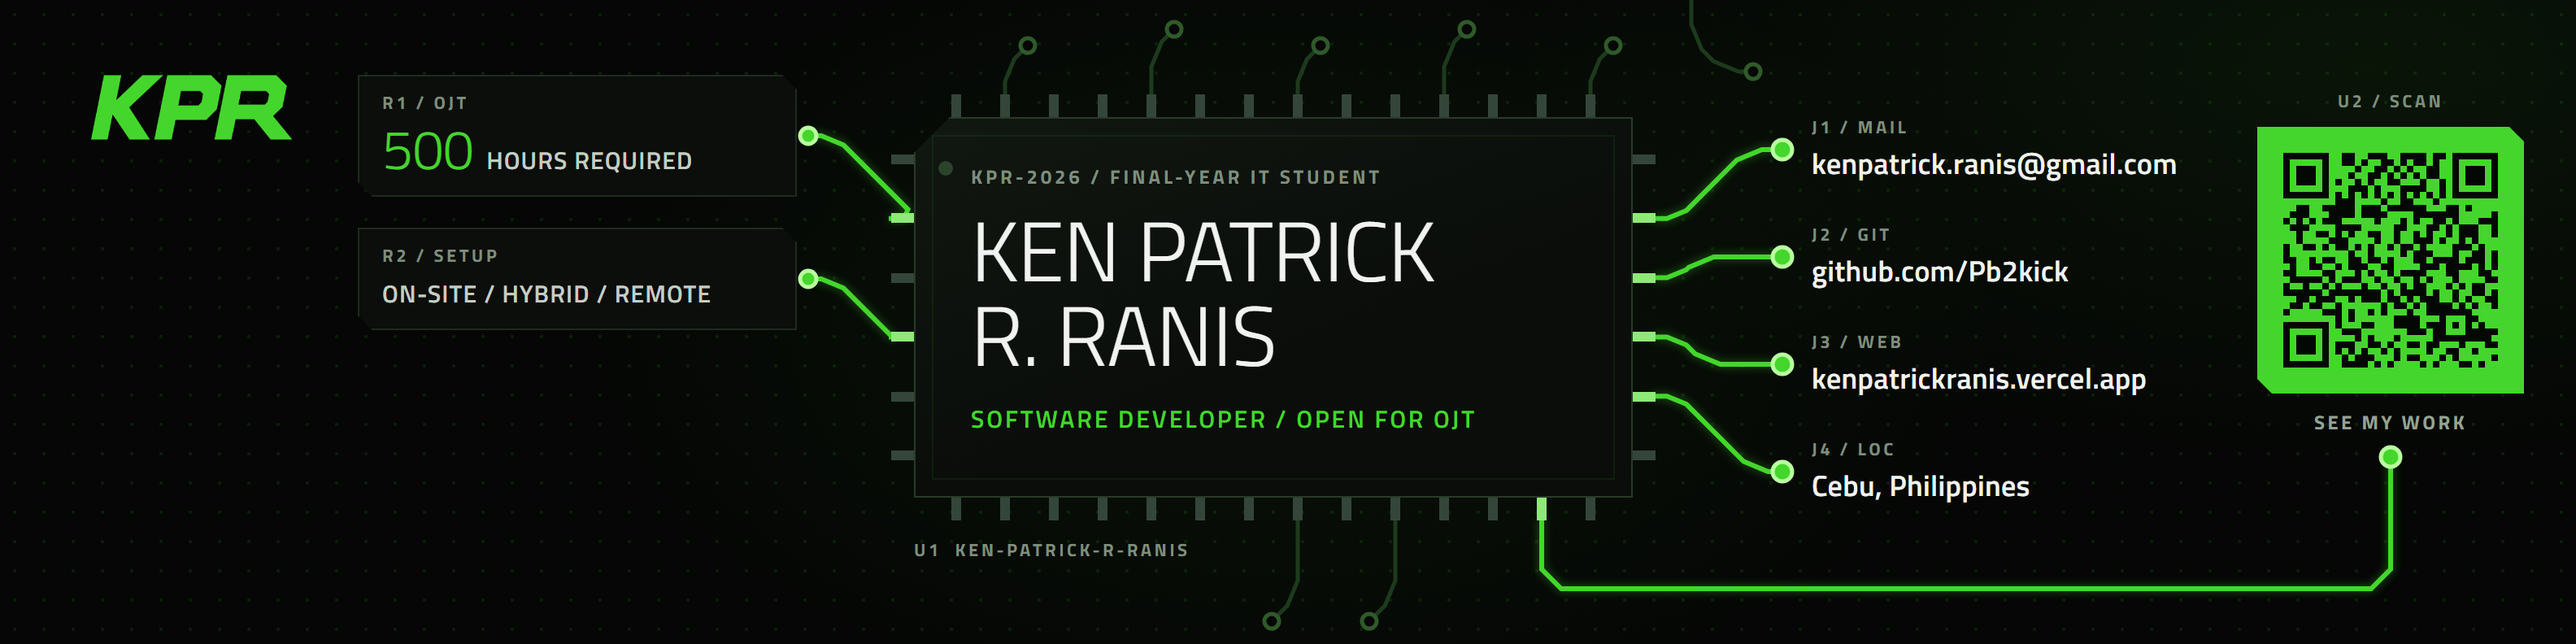
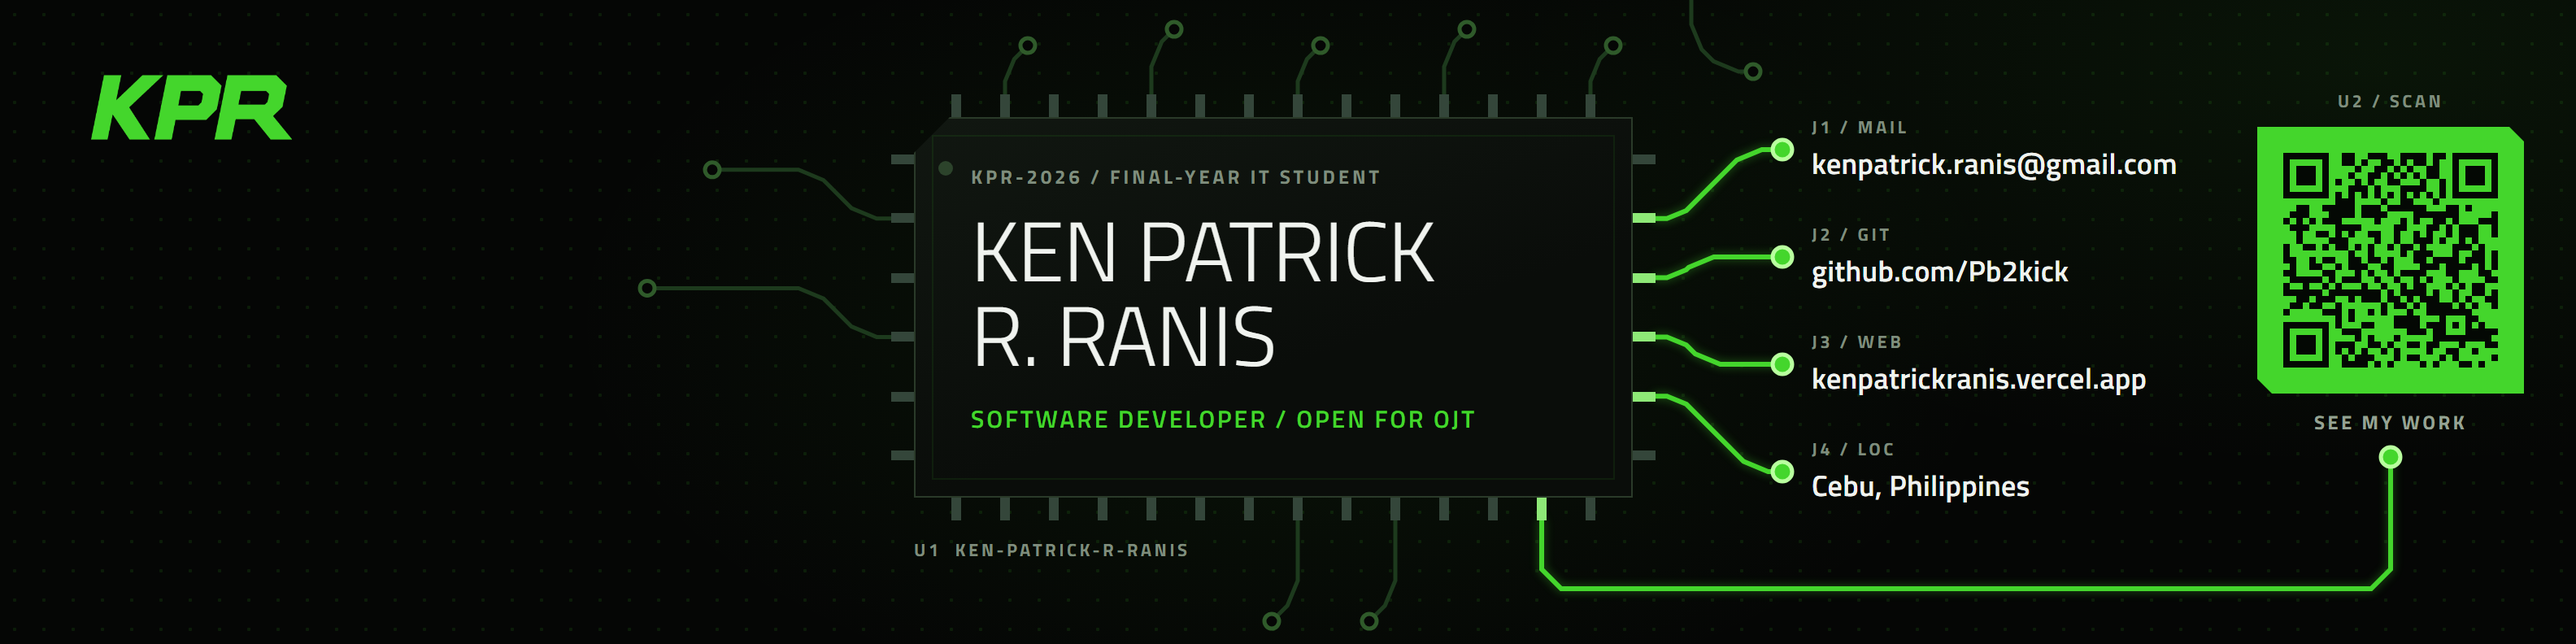
LinkedIn cover: drop the OJT hours and setup inputs; faint traces from the chip's left pins instead

diff --git a/brand/banner.html b/brand/banner.html
@@ -47,17 +47,9 @@
   /* Silkscreen: the white print on a circuit board, here in the board's muted green-grey */
   .silk { display: block; font-size: 11px; font-weight: 700; letter-spacing: .16em; text-transform: uppercase; color: var(--silk); }
 
-  /* ---------- LinkedIn: the board. I'm the processor; what I'm after feeds in on the left,
-     the ways to reach me come out on the right, and a QR component hangs off the bottom. ---------- */
+  /* ---------- LinkedIn: the board. I'm the processor; the ways to reach me come out on the
+     right, and a QR component hangs off the bottom. ---------- */
   .part { position: absolute; z-index: 2; }
-  /* Inputs: small labelled components, like resistors on the board */
-  .spec { padding: 8px 14px 10px; background: var(--surface); border: 1px solid var(--line); clip-path: var(--chamfer-sm); }
-  .spec .silk { margin-bottom: 3px; }
-  .spec-big { display: flex; align-items: baseline; gap: 8px; }
-  .spec-big b { font-size: 34px; font-weight: 300; line-height: 1; color: var(--lime); letter-spacing: -.01em; }
-  .spec-big span, .spec-text { font-size: 15px; font-weight: 600; letter-spacing: .04em; text-transform: uppercase; color: var(--soft); }
-  #in1 { left: 220px; top: 46px; width: 270px; }
-  #in2 { left: 220px; top: 140px; width: 270px; }
 
   /* The processor: a package with pins round the edge, the die in the middle, pin-1 marked */
   .cpu { left: 548px; top: 58px; width: 470px; height: 262px; }
@@ -129,9 +121,6 @@
 
   <!-- LinkedIn: the board -->
   <div data-only="linkedin">
-    <div class="part spec" id="in1"><span class="silk">R1 / OJT</span><div class="spec-big"><b>500</b><span>hours required</span></div></div>
-    <div class="part spec" id="in2"><span class="silk">R2 / Setup</span><span class="spec-text">On-site / hybrid / remote</span></div>
-
     <div class="part cpu" id="cpu">
       <div class="cpu-die">
         <p class="cpu-silk">KPR-2026 / Final-year IT student</p>
@@ -237,10 +226,10 @@
     // A little faint fill in the empty top right and right edge.
     path('faint', [pt(1040, -10), pt(1040, 24), pt(1060, 44), pt(1078, 44)]); circle('via', pt(1078, 44), 4.5);
 
-    // Inputs: what I'm after, feeding into the left pins.
-    [['in1', 1], ['in2', 3]].forEach(([id, k]) => {
-      const s = rel(document.getElementById(id)), a = pt(s.r + 7, s.t + s.h / 2), b = use(pins.left[k]);
-      path('cu', jog(a, b, 16)); circle('pad', a, 5);
+    // The left pins run out to vias, faint like the rest of the board.
+    [1, 3].forEach((k, j) => {
+      const a = pins.left[k].tip, b = pt(a.x - 110 - j * 40, a.y - 30);
+      path('faint', jog(a, b, 18)); circle('via', b, 4.5);
     });
     // Outputs: the ways to reach me, out of the right pins to a pad on each header.
     ['out1', 'out2', 'out3', 'out4'].forEach((id, k) => {
